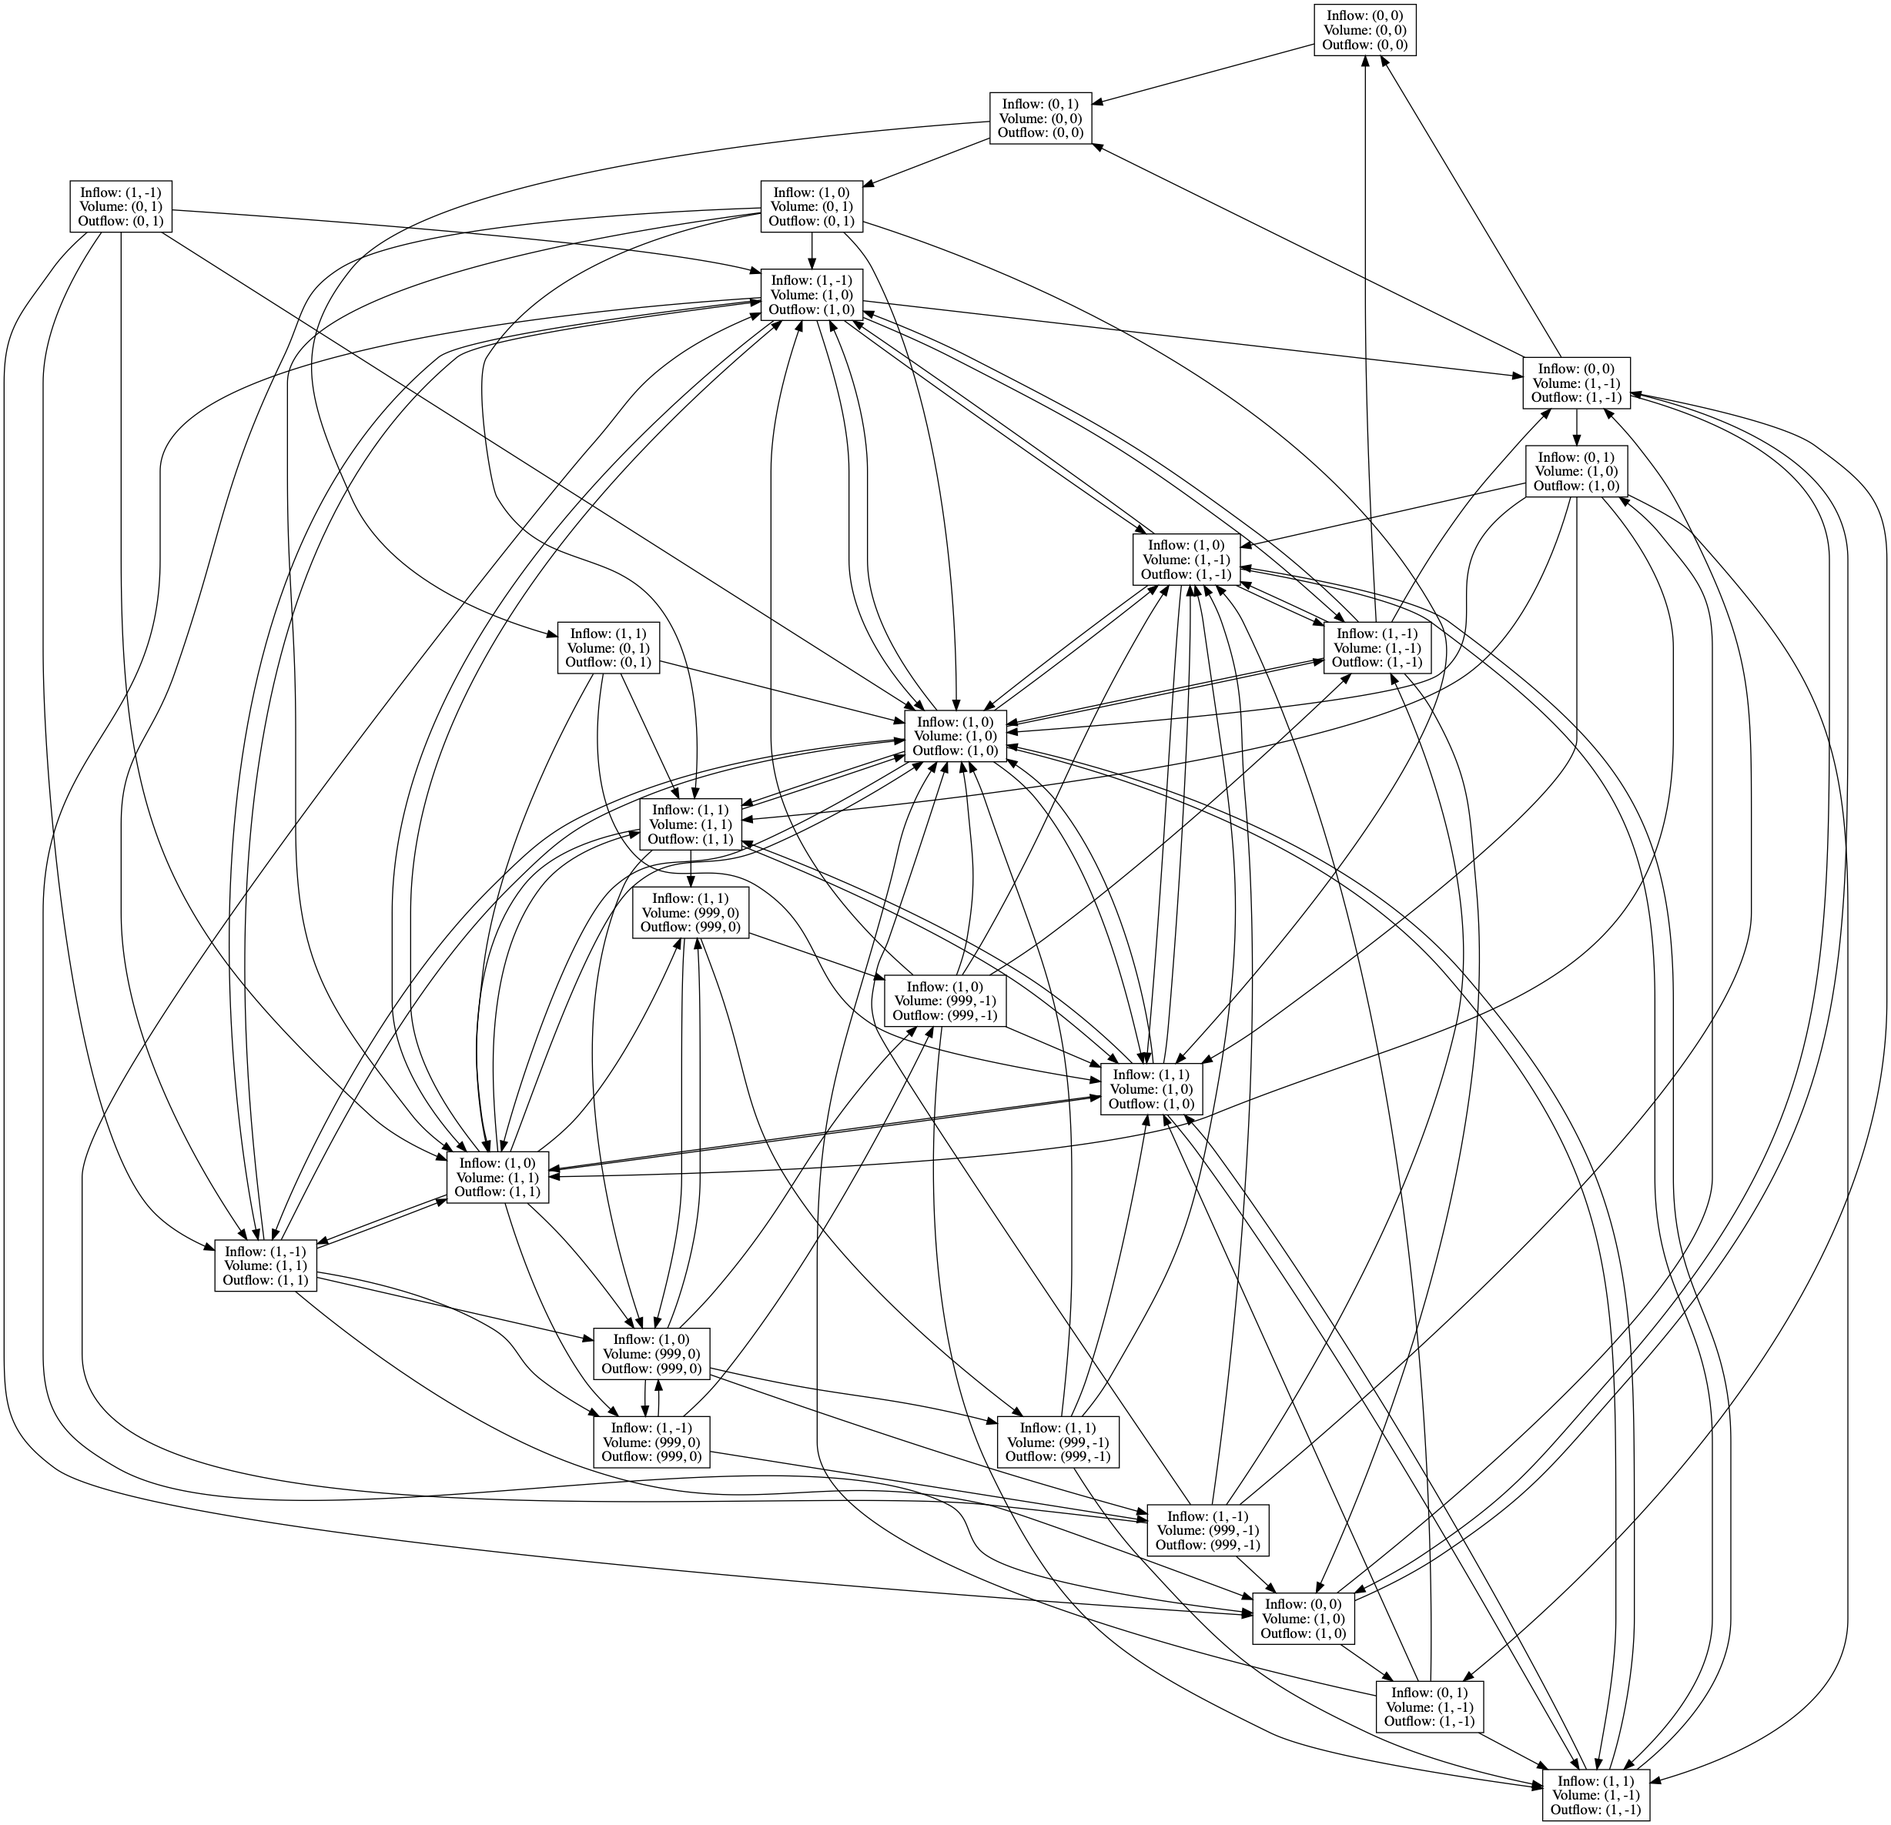
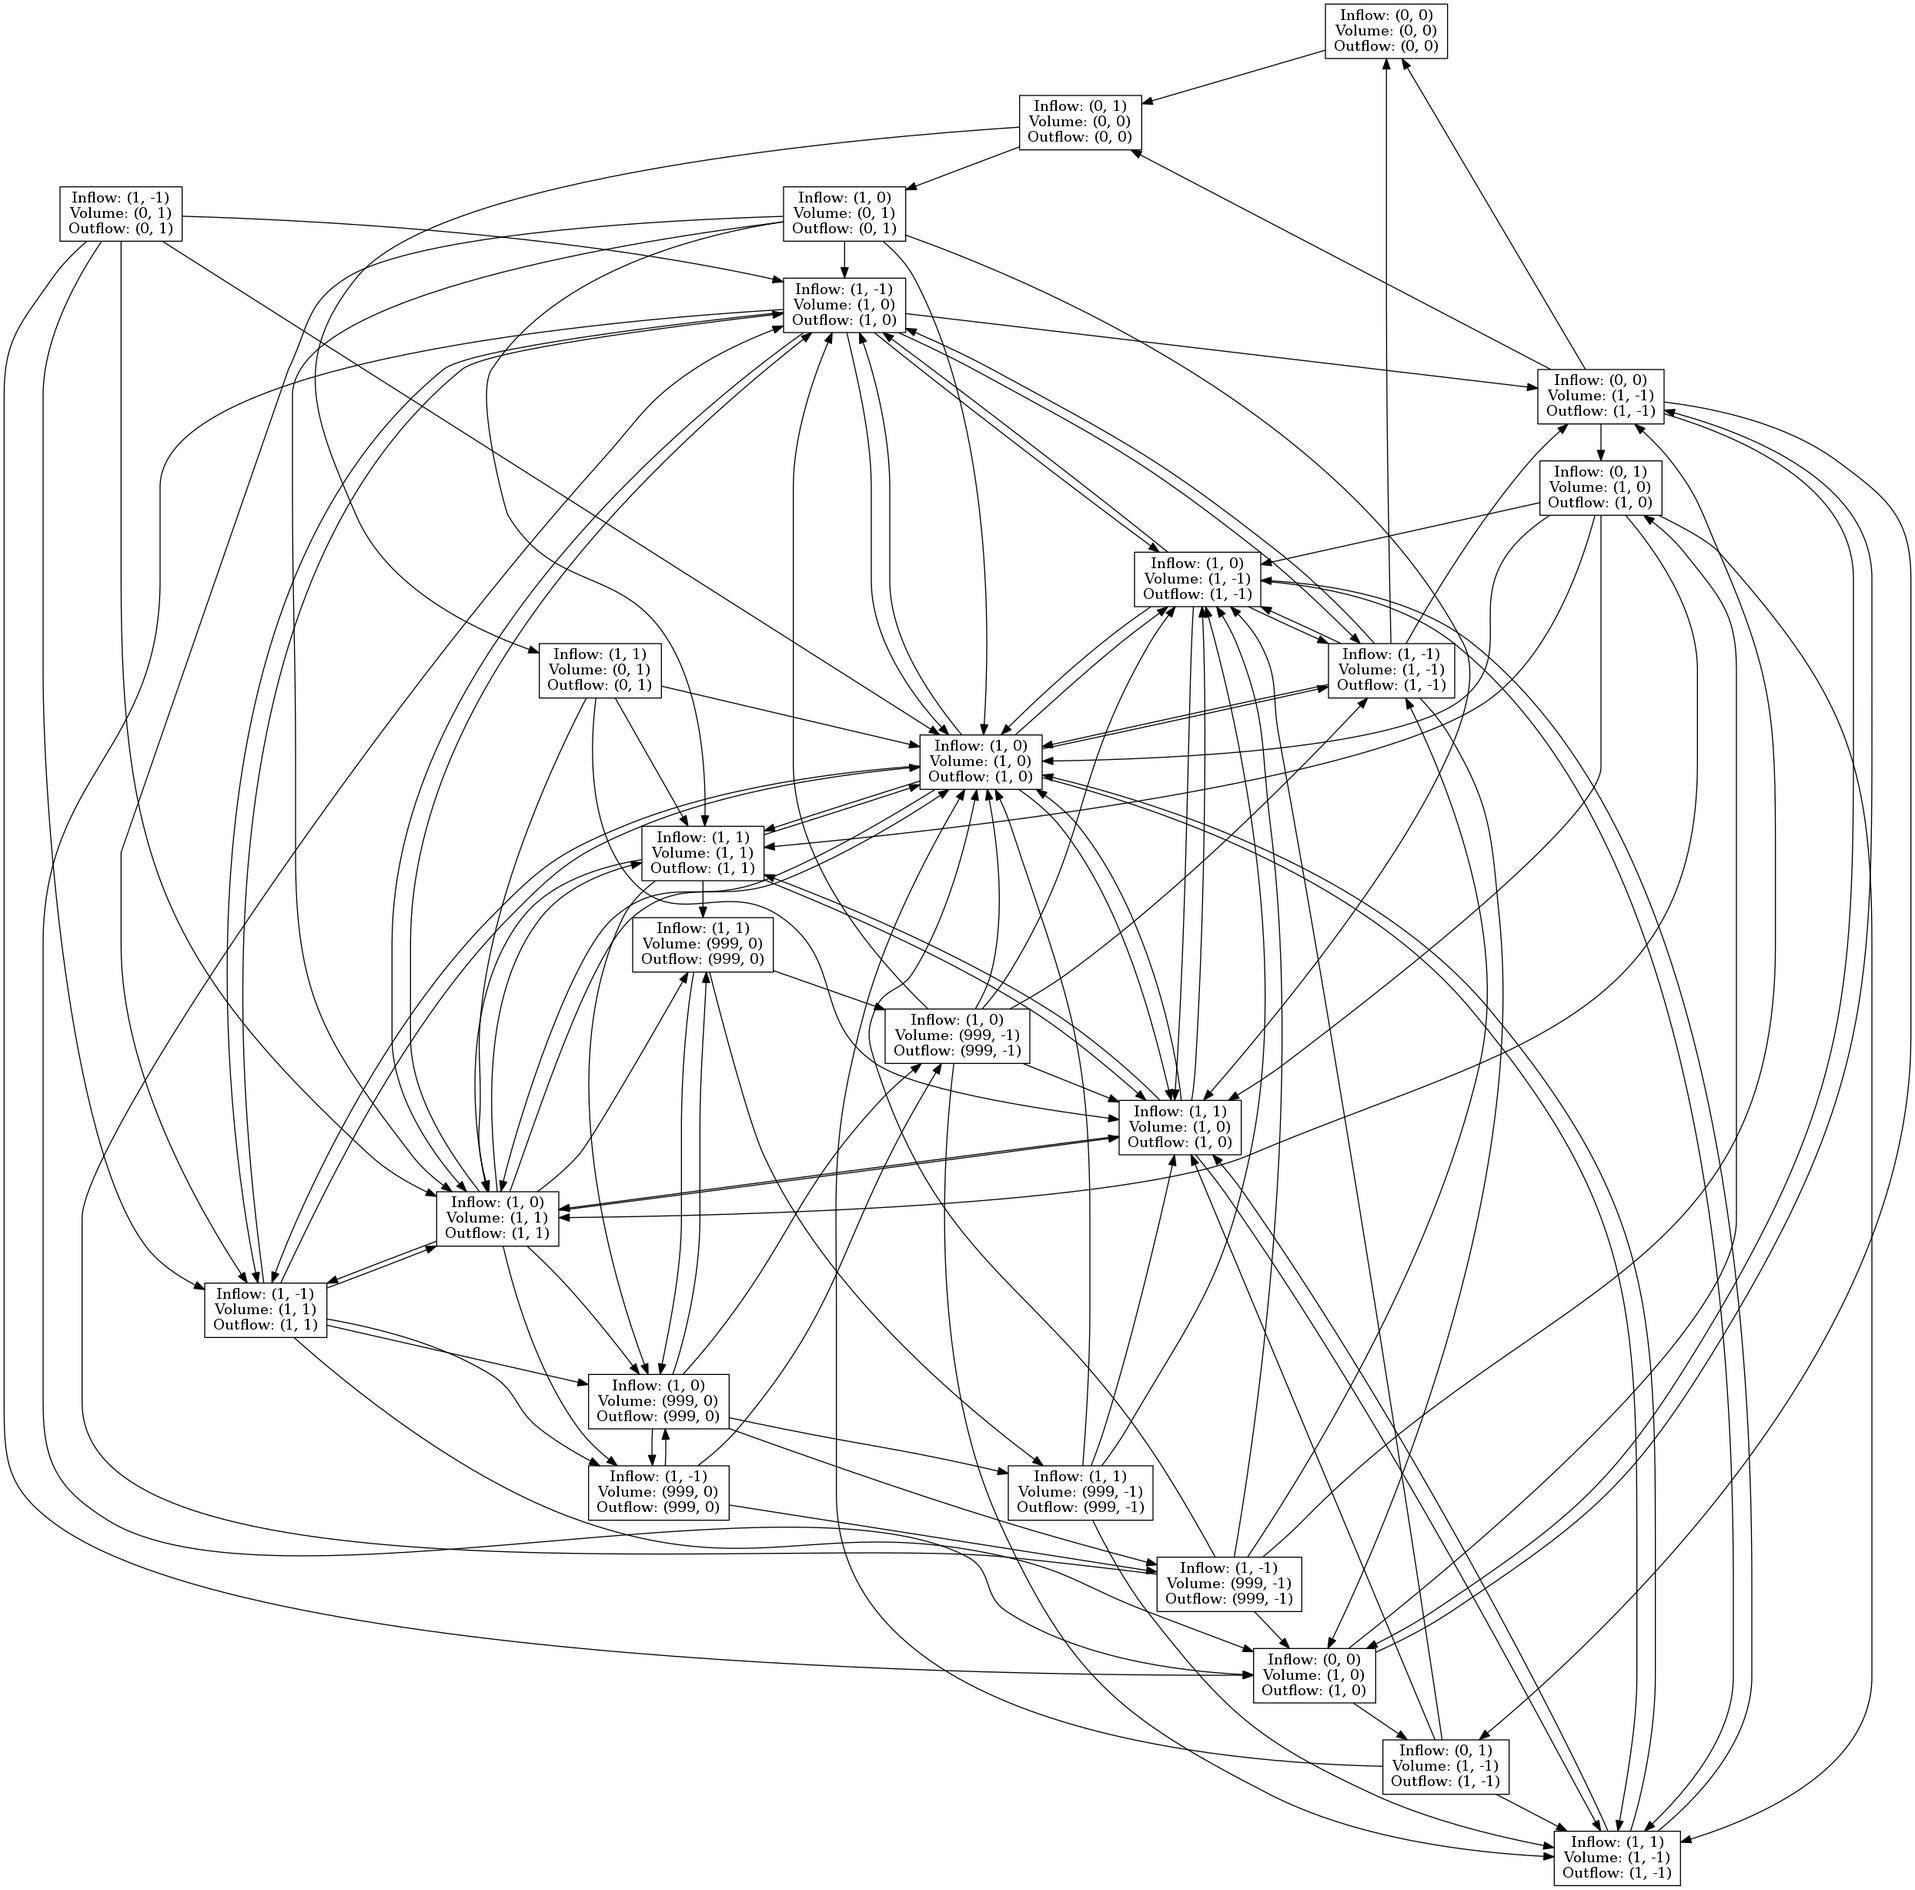
Added Dockerized version

diff --git a/src/clean.py b/src/clean.py
@@ -81,51 +81,51 @@ def transition_validity_check(s1, s2):
     for q in ['Volume', 'Inflow']:
         if s1.quantities[q].derivative.val == DerivativeValues.ZERO:
             if s1.quantities[q].magnitude.val != s2.quantities[q].magnitude.val:
-                tprint('If state 1: {}({},{}):'.format(q, '?', s1.quantities[q].derivative.val))
+                tprint('\n\nIf state 1: {}({},{}):'.format(q, '?', s1.quantities[q].derivative.val))
                 tprint('{}({},{}) cannot transition to {}({},{})'.format(q, s1.quantities[q].magnitude.val, s1.quantities[q].derivative.val, q, s2.quantities[q].magnitude.val, s2.quantities[q].derivative.val))
                 return False
 
         if s1.quantities[q].derivative.val == DerivativeValues.MAX:
             if not s2.quantities[q].magnitude.is_gequal(s1.quantities[q].magnitude):
-                tprint('If state 1: {}({},{}):'.format(q, '?', s1.quantities[q].derivative.val))
+                tprint('\n\nIf state 1: {}({},{}):'.format(q, '?', s1.quantities[q].derivative.val))
                 tprint('{}({},{}) cannot transition to {}({},{})'.format(q, s1.quantities[q].magnitude.val, s1.quantities[q].derivative.val, q, s2.quantities[q].magnitude.val, s2.quantities[q].derivative.val))
                 return False
 
         if s1.quantities[q].derivative.val == DerivativeValues.MIN:
             if not s1.quantities[q].magnitude.is_gequal(s2.quantities[q].magnitude):
-                tprint('If state 1: {}({},{}):'.format(q, '?', s1.quantities[q].derivative.val))
+                tprint('\n\nIf state 1: {}({},{}):'.format(q, '?', s1.quantities[q].derivative.val))
                 tprint('{}({},{}) cannot transition to {}({},{})'.format(q, s1.quantities[q].magnitude.val, s1.quantities[q].derivative.val, q, s2.quantities[q].magnitude.val, s2.quantities[q].derivative.val))
                 return False
 
         if s1.quantities[q].derivative.val == DerivativeValues.MAX:
             if s2.quantities[q].derivative.val == DerivativeValues.MIN:
-                tprint('If state 1: {}({},{}):'.format(q, '?', s1.quantities[q].derivative.val))
+                tprint('\n\nIf state 1: {}({},{}):'.format(q, '?', s1.quantities[q].derivative.val))
                 tprint('{}({},{}) cannot transition to {}({},{})'.format(q, s1.quantities[q].magnitude.val, s1.quantities[q].derivative.val, q, s2.quantities[q].magnitude.val, s2.quantities[q].derivative.val))
                 return False
 
         if s1.quantities[q].derivative.val == DerivativeValues.MIN:
             if s2.quantities[q].derivative.val == DerivativeValues.MAX:
-                tprint('If state 1: {}({},{}):'.format(q, '?', s1.quantities[q].derivative.val))
+                tprint('\n\nIf state 1: {}({},{}):'.format(q, '?', s1.quantities[q].derivative.val))
                 tprint('{}({},{}) cannot transition to {}({},{})'.format(q, s1.quantities[q].magnitude.val, s1.quantities[q].derivative.val, q, s2.quantities[q].magnitude.val, s2.quantities[q].derivative.val))
                 return False
 
         if s1.quantities[q].magnitude.val == MagnitudeValues.MAX:
             if s1.quantities[q].derivative.val == DerivativeValues.MIN:
                 if not s2.quantities[q].magnitude.val == MagnitudeValues.PLUS:
-                    tprint('If state 1: {}({},{}):'.format(q, s1.quantities[q].magnitude.val, s1.quantities[q].derivative.val))
+                    tprint('\n\nIf state 1: {}({},{}):'.format(q, s1.quantities[q].magnitude.val, s1.quantities[q].derivative.val))
                     tprint('{}({},{}) cannot transition to {}({},{})'.format(q, s1.quantities[q].magnitude.val, s1.quantities[q].derivative.val, q, s2.quantities[q].magnitude.val, s2.quantities[q].derivative.val))
                     return False
 
         if s1.quantities[q].magnitude.val == MagnitudeValues.ZERO:
             if s1.quantities[q].derivative.val == DerivativeValues.MAX:
                 if not s2.quantities[q].magnitude.val == MagnitudeValues.PLUS:
-                    tprint('If state 1: {}({},{}):'.format(q, s1.quantities[q].magnitude.val, s1.quantities[q].derivative.val))
+                    tprint('\n\nIf state 1: {}({},{}):'.format(q, s1.quantities[q].magnitude.val, s1.quantities[q].derivative.val))
                     tprint('{}({},{}) cannot transition to {}({},{})'.format(q, s1.quantities[q].magnitude.val, s1.quantities[q].derivative.val, q, s2.quantities[q].magnitude.val, s2.quantities[q].derivative.val))
                     return False
 
     if s1.quantities['Inflow'].magnitude.val == MagnitudeValues.MAX:
         if not s2.quantities['Volume'].derivative.val == DerivativeValues.MAX:
-            tprint('If state 1: {}({},{}):'.format('Inflow', s1.quantities['Inflow'].magnitude.val, s1.quantities['Inflow'].derivative.val))
+            tprint('\n\nIf state 1: {}({},{}):'.format('Inflow', s1.quantities['Inflow'].magnitude.val, s1.quantities['Inflow'].derivative.val))
             tprint('{}({},{}) cannot transition to {}({},{})'.format('Inflow', s1.quantities['Inflow'].magnitude.val, s1.quantities['Inflow'].derivative.val, 'Volume', s2.quantities['Volume'].magnitude.val, s2.quantities['Volume'].derivative.val))
             return False
 

diff --git a/src/main.py b/src/main.py
@@ -1,3 +1,6 @@
+#!/usr/local/bin/python3
+
+import argparse
 from generate import generate
 from clean import clean_states, clean_transitions
 from itertools import product
@@ -18,6 +21,11 @@ if __name__ == '__main__':
     #         Model("VC", MagnitudeValues.ZERO, "Outflow", "Volume")
     # ]
 
+
+    parser = argparse.ArgumentParser()
+    parser.add_argument('-D', default='./results')
+    args = parser.parse_args()
+
     states = generate()
     new_states = clean_states(states)
 
@@ -27,5 +35,5 @@ if __name__ == '__main__':
     new_transitions = clean_transitions(transitions)
     print('new transitions: {}, old transitions {}'.format(len(new_transitions), len(transitions)))
 
-    graph = Graph(new_states)
+    graph = Graph(new_states, path=args.D)
     graph.write()

diff --git a/src/graph.py b/src/graph.py
@@ -1,10 +1,12 @@
 import pydot
+import os
 
 class Graph():
 
-    def __init__(self, states):
+    def __init__(self, states, path='data'):
         self.graph = pydot.Dot(graph_type='digraph')
         self.states = states
+        self.path = path
         # self.nodes = [pydot.Node()] * len(self.states)
         self.nodes = []
         self.create_graph()
@@ -30,5 +32,7 @@ class Graph():
                 self.graph.add_edge(pydot.Edge(s.node, t.node)) #, label=self.node_desc(t)))
 
     def write(self):
-        self.graph.write_png('graph.png')
+        if not os.path.exists(self.path):
+            os.makedirs(self.path)
+        self.graph.write_png(os.path.join(self.path, 'graph.png'))
         self.graph.create_svg()

diff --git a/run_docker.py b/run_docker.py
@@ -1,0 +1,12 @@
+#!/usr/bin/python
+import os
+
+TAG = 'vu/qr:1.0.0'
+MNT = '/results'
+DIR = os.path.abspath('./')
+
+os.system('cd src && docker build -t {} .'.format(TAG))
+
+print("### RUNNING DOCKERIZED QR ###")
+print(DIR, MNT)
+os.system('docker run -v {}:{} {} ./main.py -D{}'.format(DIR, MNT, TAG, MNT))

diff --git a/src/utils.py b/src/utils.py
@@ -3,4 +3,6 @@ idx = 0
 def tprint(s):
     global idx
     print('# TRACE {}: {}'.format(idx, s))
-    idx += 1
+
+    if not 'If state' in s:
+        idx += 1

diff --git a/run.py b/run.py
@@ -1,0 +1,3 @@
+#!/usr/local/bin/python3
+import os
+os.system('python3 src/main.py')
